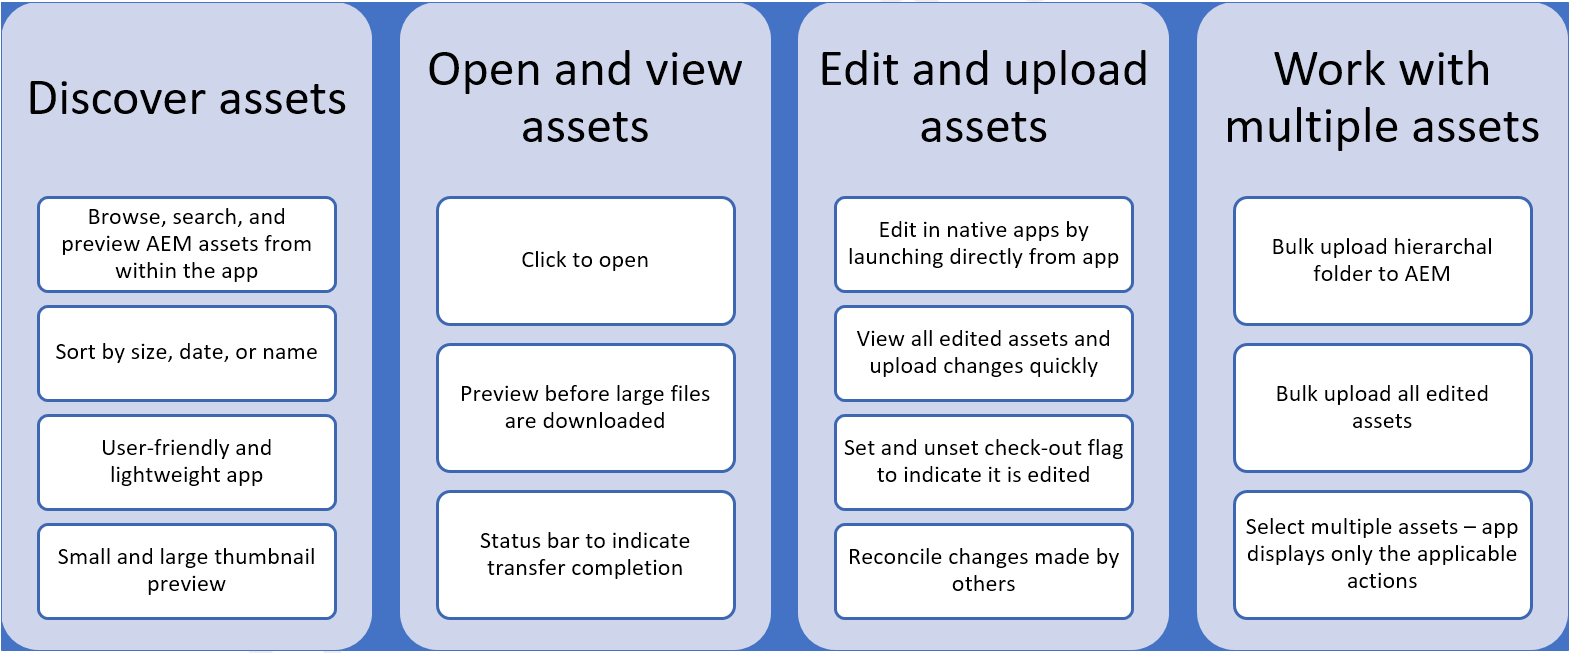
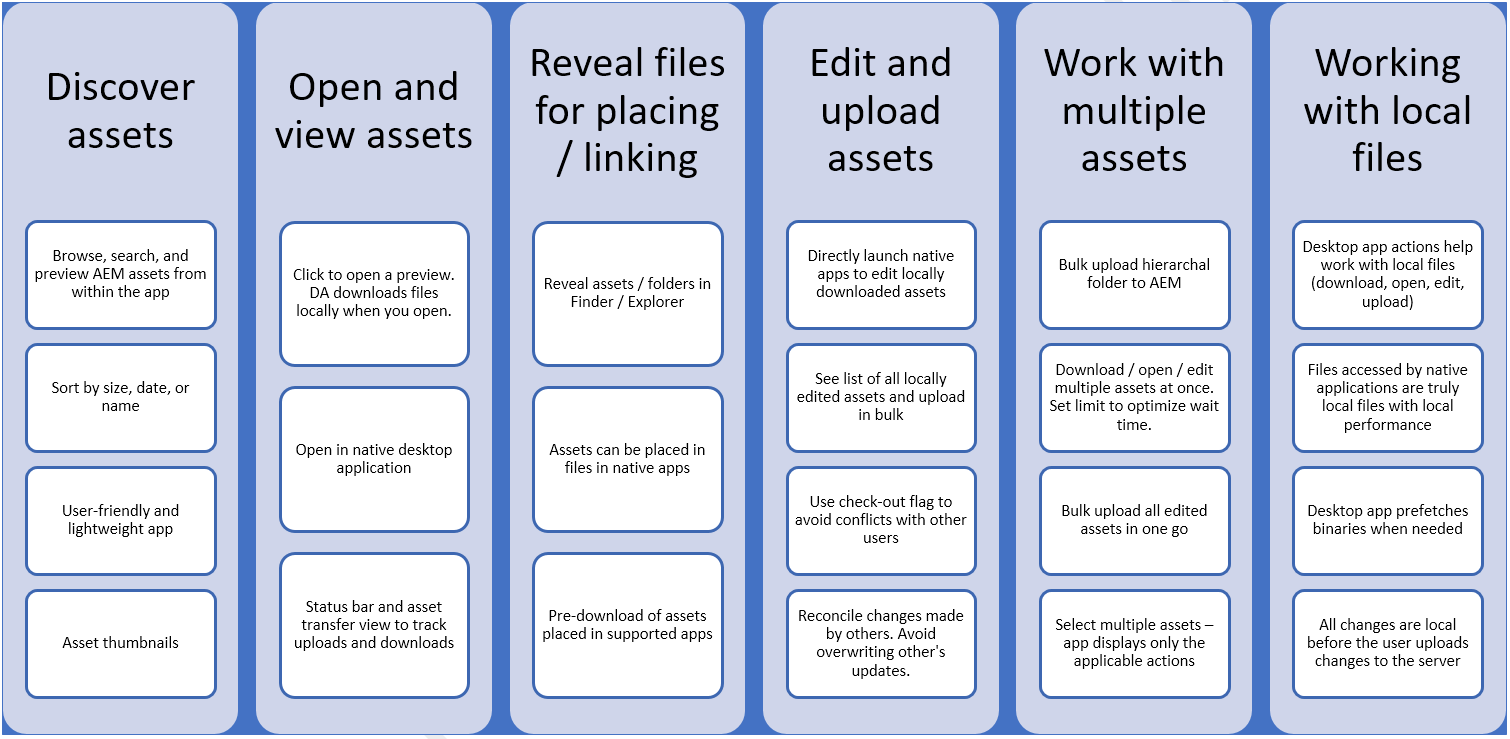
Expanded overview and what's new.

diff --git a/help/introduction.md b/help/introduction.md
@@ -19,15 +19,26 @@ snippet: y
 
 # AEM desktop app Overview {#overview-v2}
 
-Adobe offers connected workflows across its solutions to allow next-level productivity for your creative professionals. The AEM desktop app connects AEM repositories and desktop applications, including Adobe and third-party ones, to provide faster access to resources and streamlined workflows. This saving of time and reduction in effort improves efficiency of users, who work with assets from AEM in their desktop workflows.
+Adobe offers connected workflows across its solutions to allow next-level productivity for your creative professionals. The Adobe Experience Manager desktop app connects repositories and desktop applications, including Adobe and third-party ones, to provide faster access to resources and streamlined workflows. This saving of time and reduction in effort improves efficiency of users, who work with assets from Adobe Experience Manager in their desktop workflows.
 
-Using the App, the assets within AEM are easily accessible on your local desktop and can be used in any desktop applications. Assets can be easily revealed in Mac Finder or Windows Explorer, opened in desktop applications, and changed locally - the changes are saved back to AEM with a new version created in the repository.
+Using the App, the assets within AEM Assets are easily accessible on your local desktop and can be used in any desktop applications. Assets can be easily revealed in Mac Finder or Windows Explorer, opened in desktop applications, and changed locally - the changes are saved back to AEM with a new version created in the repository.
 
 Such an integration allows various roles in the organization to manage the assets centrally in AEM Assets and to access them in the Creative Cloud and other applications, while making it easy to adhere to the various standards including branding.
 
 >[!NOTE]
 >
->AEM desktop app was introduced in AEM 6.1 release and was previously called AEM Assets Companion App.
+>Adobe Experience Manager desktop app was introduced in AEM 6.1 release and was previously called AEM Assets Companion App. If you are using v1.x of the app, Adobe strongly recommends that you upgrade to the latest version. For specific help articles of version 1.x of the app, see the TOC in the left sidebar.
+
+The desktop app documentation contains information for the following roles and use cases.
+
+|                                          Information required                                         |                     See this section                       |
+|-------------------------------------------------------------------------------------------------------|------------------------------------------------------------|
+| Want a quick glimpse of new features and enhancements in the latest version?                          | [What's New in the App](#whats-new-v2)                     |
+| Want to know the prerequisites and technical specifications? Want download links?                     | [Release Notes](release-notes.md)                          |
+| Not new to desktop app? Upgrading and want to transition smoothly?                                    | [Upgrade from previous version](install-upgrade.md#upgrade-from-previous-version-v2)|
+| Get up and running. Want to tweak default preferences?                                                | [Install and configure the app](install-upgrade.md)        |
+| Learn how to use to browse, discover, edit, upload, resolve conflicts, do bulk operations, and so on. | [Use AEM desktop app](using.md)                            |
+| Ran into an issue? Need help to troubleshoot?                                                         | [Troubleshoot the AEM desktop app](troubleshoot.md)        |
 
 <!-- ## AEM Desktop app touch-points in the creative workflow {#aem-desktop-app-touch-points-in-the-creative-workflow}
 
@@ -39,13 +50,17 @@ AEM Desktop app touch-points the creative workflow -->
 
 ## What's New in the App {#whats-new-v2}
 
-The new App simplifies access to assets from AEM Assets repository for desktop applications, and provides a way to discover assets, open, edit and upload changes, as well as upload new assets – without requiring the user to use the AEM interface. The new app brings substantial improvements to the user experience, while catering to the same use cases as before. The following are the top-level improvements.
+Version 2.0 of the app is created from grounds-up to provide many improvements over the previous versions. The new app simplifies access to assets from AEM Assets repository for desktop applications, and provides a way to discover assets, open, edit and upload changes, as well as upload new assets – without requiring the user to use the AEM interface.
+
+The new app brings substantial improvements to the user experience, while catering to the same use cases as before. The following are the top-level improvements.
 
 * Users discover assets by browsing and searching within the app in a built-in browser, instead of relying on Mac Finder or Windows Explorer to display a virtual network share.
 * Clear guidance on the actions available to users.
 * Performance is improved by reducing bandwidth usage. The original binary files are downloaded only when required. For browsing and searching assets, only small thumbnails are transferred.
 * Optimized for bulk operations, such as bulk upload.
 
+The primary use cases and enhancements of the new app are mapped with the customer journey in the following illustration
+
 ![What's New in AEM desktop app](assets/whats-new-desktop-app-v2.png)
 
-If you are using v1.x of the app, refer the specific help articles in the TOC in the left sidebar. Adobe strongly recommends that you upgrade to the latest version.
+In its new avatar, while the desktop app allows you to accomplish all the above-mentioned use cases right from your desktop, you can choose to do asset discovery in the web interface and then initiate Open, Reveal, Edit, and Toggle check-out/check-in flags from the web interface.
